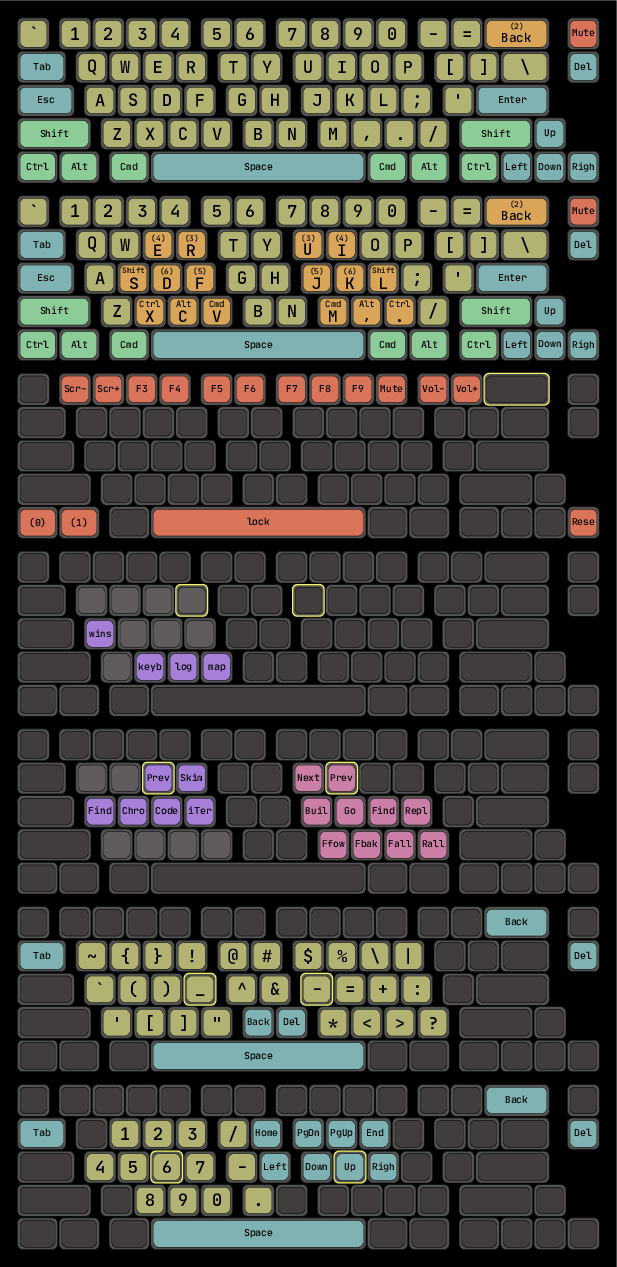
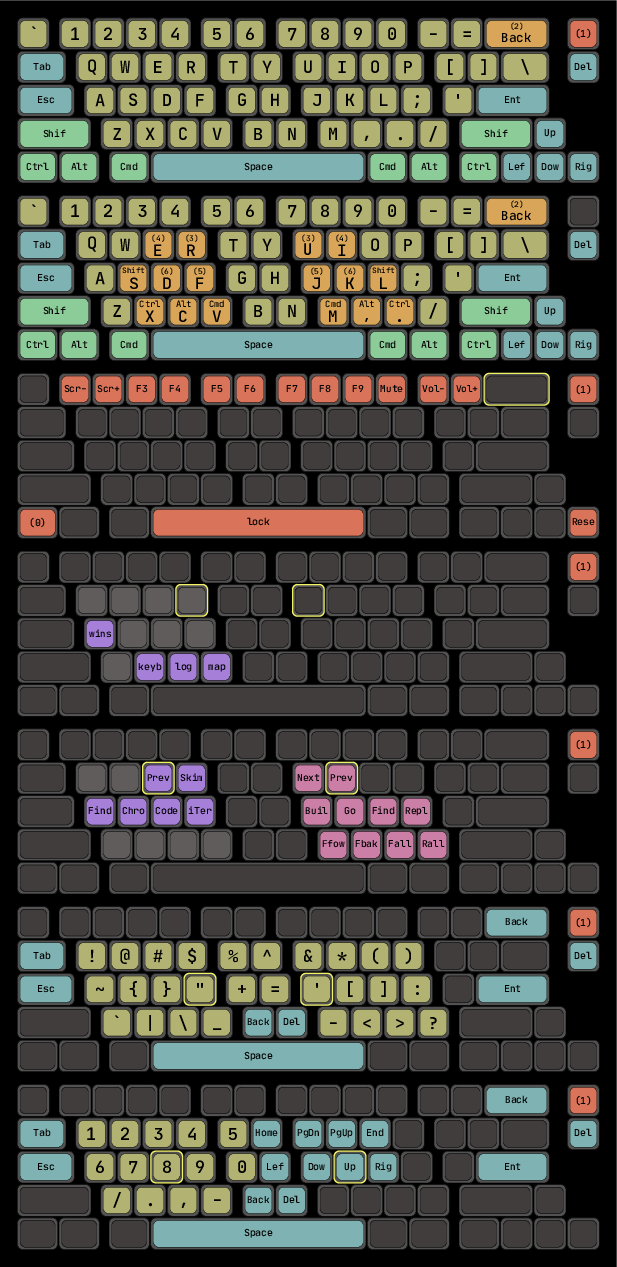
about to revert

diff --git a/keyboards/fc660c/keymaps/syzygies/keymap.c b/keyboards/fc660c/keymaps/syzygies/keymap.c
@@ -5,58 +5,58 @@
 const uint16_t PROGMEM keymaps[][MATRIX_ROWS][MATRIX_COLS] = {
   // Safety
   [0] = LAYOUT(
-    KC_GRV  , KC_1       , KC_2         , KC_3         , KC_4         , KC_5    , KC_6    , KC_7          , KC_8            , KC_9           , KC_0       , KC_MINS     , KC_EQL    , LT(2,KC_BSPC) , KC__MUTE ,
-    KC_TAB  , KC_Q       , KC_W         , KC_E         , KC_R         , KC_T    , KC_Y    , KC_U          , KC_I            , KC_O           , KC_P       , KC_LBRC     , KC_RBRC   , KC_BSLS       , KC_DEL   ,
+    KC_GRV  , KC_1       , KC_2         , KC_3         , KC_4         , KC_5    , KC_6    , KC_7          , KC_8            , KC_9           , KC_0       , KC_MINS     , KC_EQL    , LT(2,KC_BSPC) , DF(1)   ,
+    KC_TAB  , KC_Q       , KC_W         , KC_E         , KC_R         , KC_T    , KC_Y    , KC_U          , KC_I            , KC_O           , KC_P       , KC_LBRC     , KC_RBRC   , KC_BSLS       , KC_DEL  ,
     KC_ESC  , KC_A       , KC_S         , KC_D         , KC_F         , KC_G    , KC_H    , KC_J          , KC_K            , KC_L           , KC_SCLN    , KC_QUOT     , KC_ENT    ,
     KC_LSFT , KC_Z       , KC_X         , KC_C         , KC_V         , KC_B    , KC_N    , KC_M          , KC_COMM         , KC_DOT         , KC_SLSH    , KC_RSFT     , KC_UP     ,
     KC_LCTL , KC_LALT    , KC_LGUI      , KC_SPC       , KC_RGUI      , KC_RALT , KC_RCTL , KC_LEFT       , KC_DOWN         , KC_RGHT        
   ),
   // Base
   [1] = LAYOUT(
-    KC_GRV  , KC_1       , KC_2         , KC_3         , KC_4         , KC_5    , KC_6    , KC_7          , KC_8            , KC_9           , KC_0       , KC_MINS     , KC_EQL    , LT(2,KC_BSPC) , KC__MUTE ,
-    KC_TAB  , KC_Q       , KC_W         , LT(4,KC_E)   , LT(3,KC_R)   , KC_T    , KC_Y    , LT(3,KC_U)    , LT(4,KC_I)      , KC_O           , KC_P       , KC_LBRC     , KC_RBRC   , KC_BSLS       , KC_DEL   ,
+    KC_GRV  , KC_1       , KC_2         , KC_3         , KC_4         , KC_5    , KC_6    , KC_7          , KC_8            , KC_9           , KC_0       , KC_MINS     , KC_EQL    , LT(2,KC_BSPC) , XXXXXXX ,
+    KC_TAB  , KC_Q       , KC_W         , LT(4,KC_E)   , LT(3,KC_R)   , KC_T    , KC_Y    , LT(3,KC_U)    , LT(4,KC_I)      , KC_O           , KC_P       , KC_LBRC     , KC_RBRC   , KC_BSLS       , KC_DEL  ,
     KC_ESC  , KC_A       , LSFT_T(KC_S) , LT(6,KC_D)   , LT(5,KC_F)   , KC_G    , KC_H    , LT(5,KC_J)    , LT(6,KC_K)      , RSFT_T(KC_L)   , KC_SCLN    , KC_QUOT     , KC_ENT    ,
     KC_LSFT , KC_Z       , LCTL_T(KC_X) , LALT_T(KC_C) , LGUI_T(KC_V) , KC_B    , KC_N    , RGUI_T(KC_M)  , RALT_T(KC_COMM) , RCTL_T(KC_DOT) , KC_SLSH    , KC_RSFT     , KC_UP     ,
     KC_LCTL , KC_LALT    , KC_LGUI      , KC_SPC       , KC_RGUI      , KC_RALT , KC_RCTL , KC_LEFT       , KC_DOWN         , KC_RGHT        
   ),
-  // WO
+  // Backspace
   [2] = LAYOUT(
-    XXXXXXX , KC_F1      , KC_F2        , KC_F3        , KC_F4        , KC_F5   , KC_F6   , KC_F7         , KC_F8           , KC_F9          , KC__MUTE   , KC__VOLDOWN , KC__VOLUP , XXXXXXX       , XXXXXXX  ,
-    XXXXXXX , XXXXXXX    , XXXXXXX      , XXXXXXX      , XXXXXXX      , XXXXXXX , XXXXXXX , XXXXXXX       , XXXXXXX         , XXXXXXX        , XXXXXXX    , XXXXXXX     , XXXXXXX   , XXXXXXX       , XXXXXXX  ,
+    XXXXXXX , KC_F1      , KC_F2        , KC_F3        , KC_F4        , KC_F5   , KC_F6   , KC_F7         , KC_F8           , KC_F9          , KC__MUTE   , KC__VOLDOWN , KC__VOLUP , XXXXXXX       , DF(1)   ,
+    XXXXXXX , XXXXXXX    , XXXXXXX      , XXXXXXX      , XXXXXXX      , XXXXXXX , XXXXXXX , XXXXXXX       , XXXXXXX         , XXXXXXX        , XXXXXXX    , XXXXXXX     , XXXXXXX   , XXXXXXX       , XXXXXXX ,
     XXXXXXX , XXXXXXX    , XXXXXXX      , XXXXXXX      , XXXXXXX      , XXXXXXX , XXXXXXX , XXXXXXX       , XXXXXXX         , XXXXXXX        , XXXXXXX    , XXXXXXX     , XXXXXXX   ,
     XXXXXXX , XXXXXXX    , XXXXXXX      , XXXXXXX      , XXXXXXX      , XXXXXXX , XXXXXXX , XXXXXXX       , XXXXXXX         , XXXXXXX        , XXXXXXX    , XXXXXXX     , XXXXXXX   ,
-    DF(0)   , DF(1)      , XXXXXXX      , MEH(KC_SPC)  , XXXXXXX      , XXXXXXX , XXXXXXX , XXXXXXX       , XXXXXXX         , RESET          
+    DF(0)   , XXXXXXX    , XXXXXXX      , MEH(KC_SPC)  , XXXXXXX      , XXXXXXX , XXXXXXX , XXXXXXX       , XXXXXXX         , RESET          
   ),
   // RU
   [3] = LAYOUT(
-    XXXXXXX , XXXXXXX    , XXXXXXX      , XXXXXXX      , XXXXXXX      , XXXXXXX , XXXXXXX , XXXXXXX       , XXXXXXX         , XXXXXXX        , XXXXXXX    , XXXXXXX     , XXXXXXX   , XXXXXXX       , XXXXXXX  ,
-    XXXXXXX , MEH(KC_Q)  , MEH(KC_W)    , MEH(KC_E)    , MEH(KC_R)    , XXXXXXX , XXXXXXX , XXXXXXX       , XXXXXXX         , XXXXXXX        , XXXXXXX    , XXXXXXX     , XXXXXXX   , XXXXXXX       , XXXXXXX  ,
+    XXXXXXX , XXXXXXX    , XXXXXXX      , XXXXXXX      , XXXXXXX      , XXXXXXX , XXXXXXX , XXXXXXX       , XXXXXXX         , XXXXXXX        , XXXXXXX    , XXXXXXX     , XXXXXXX   , XXXXXXX       , DF(1)   ,
+    XXXXXXX , MEH(KC_Q)  , MEH(KC_W)    , MEH(KC_E)    , MEH(KC_R)    , XXXXXXX , XXXXXXX , XXXXXXX       , XXXXXXX         , XXXXXXX        , XXXXXXX    , XXXXXXX     , XXXXXXX   , XXXXXXX       , XXXXXXX ,
     XXXXXXX , MEH(KC_A)  , MEH(KC_S)    , MEH(KC_D)    , MEH(KC_F)    , XXXXXXX , XXXXXXX , XXXXXXX       , XXXXXXX         , XXXXXXX        , XXXXXXX    , XXXXXXX     , XXXXXXX   ,
     XXXXXXX , MEH(KC_Z)  , MEH(KC_X)    , MEH(KC_C)    , MEH(KC_V)    , XXXXXXX , XXXXXXX , XXXXXXX       , XXXXXXX         , XXXXXXX        , XXXXXXX    , XXXXXXX     , XXXXXXX   ,
     XXXXXXX , XXXXXXX    , XXXXXXX      , XXXXXXX      , XXXXXXX      , XXXXXXX , XXXXXXX , XXXXXXX       , XXXXXXX         , XXXXXXX        
   ),
   // EI
   [4] = LAYOUT(
-    XXXXXXX , XXXXXXX    , XXXXXXX      , XXXXXXX      , XXXXXXX      , XXXXXXX , XXXXXXX , XXXXXXX       , XXXXXXX         , XXXXXXX        , XXXXXXX    , XXXXXXX     , XXXXXXX   , XXXXXXX       , XXXXXXX  ,
-    XXXXXXX , HYPR(KC_Q) , HYPR(KC_W)   , HYPR(KC_E)   , HYPR(KC_R)   , XXXXXXX , XXXXXXX , S(G(KC_RBRC)) , S(G(KC_LBRC))   , XXXXXXX        , XXXXXXX    , XXXXXXX     , XXXXXXX   , XXXXXXX       , XXXXXXX  ,
+    XXXXXXX , XXXXXXX    , XXXXXXX      , XXXXXXX      , XXXXXXX      , XXXXXXX , XXXXXXX , XXXXXXX       , XXXXXXX         , XXXXXXX        , XXXXXXX    , XXXXXXX     , XXXXXXX   , XXXXXXX       , DF(1)   ,
+    XXXXXXX , HYPR(KC_Q) , HYPR(KC_W)   , HYPR(KC_E)   , HYPR(KC_R)   , XXXXXXX , XXXXXXX , S(G(KC_RBRC)) , S(G(KC_LBRC))   , XXXXXXX        , XXXXXXX    , XXXXXXX     , XXXXXXX   , XXXXXXX       , XXXXXXX ,
     XXXXXXX , HYPR(KC_A) , HYPR(KC_S)   , HYPR(KC_D)   , HYPR(KC_F)   , XXXXXXX , XXXXXXX , SCMD(KC_B)    , G(KC_P)         , G(KC_F)        , A(G(KC_F)) , XXXXXXX     , XXXXXXX   ,
     XXXXXXX , HYPR(KC_Z) , HYPR(KC_X)   , HYPR(KC_C)   , HYPR(KC_V)   , XXXXXXX , XXXXXXX , G(KC_G)       , S(G(KC_G))      , S(G(KC_F))     , S(G(KC_H)) , XXXXXXX     , XXXXXXX   ,
     XXXXXXX , XXXXXXX    , XXXXXXX      , XXXXXXX      , XXXXXXX      , XXXXXXX , XXXXXXX , XXXXXXX       , XXXXXXX         , XXXXXXX        
   ),
   // FJ
   [5] = LAYOUT(
-    XXXXXXX , XXXXXXX    , XXXXXXX      , XXXXXXX      , XXXXXXX      , XXXXXXX , XXXXXXX , XXXXXXX       , XXXXXXX         , XXXXXXX        , XXXXXXX    , XXXXXXX     , XXXXXXX   , KC_BSPC       , XXXXXXX  ,
-    KC_TAB  , KC_TILD    , KC_LCBR      , KC_RCBR      , KC_EXLM      , KC_AT   , KC_HASH , KC_DLR        , KC_PERC         , KC_BSLS        , KC_PIPE    , XXXXXXX     , XXXXXXX   , XXXXXXX       , KC_DEL   ,
-    XXXXXXX , KC_GRV     , KC_LPRN      , KC_RPRN      , KC_UNDS      , KC_CIRC , KC_AMPR , KC_MINS       , KC_EQL          , KC_PLUS        , KC_COLN    , XXXXXXX     , XXXXXXX   ,
-    XXXXXXX , KC_QUOT    , KC_LBRC      , KC_RBRC      , KC_DQUO      , KC_BSPC , KC_DEL  , KC_ASTR       , KC_LT           , KC_GT          , KC_QUES    , XXXXXXX     , XXXXXXX   ,
+    XXXXXXX , XXXXXXX    , XXXXXXX      , XXXXXXX      , XXXXXXX      , XXXXXXX , XXXXXXX , XXXXXXX       , XXXXXXX         , XXXXXXX        , XXXXXXX    , XXXXXXX     , XXXXXXX   , KC_BSPC       , DF(1)   ,
+    KC_TAB  , KC_EXLM    , KC_AT        , KC_HASH      , KC_DLR       , KC_PERC , KC_CIRC , KC_AMPR       , KC_ASTR         , KC_LPRN        , KC_RPRN    , XXXXXXX     , XXXXXXX   , XXXXXXX       , KC_DEL  ,
+    KC_ESC  , KC_TILD    , KC_LCBR      , KC_RCBR      , KC_DQUO      , KC_PLUS , KC_EQL  , KC_QUOT       , KC_LBRC         , KC_RBRC        , KC_COLN    , XXXXXXX     , KC_ENT    ,
+    XXXXXXX , KC_GRV     , KC_PIPE      , KC_BSLS      , KC_UNDS      , KC_BSPC , KC_DEL  , KC_MINS       , KC_LT           , KC_GT          , KC_QUES    , XXXXXXX     , XXXXXXX   ,
     XXXXXXX , XXXXXXX    , XXXXXXX      , KC_SPC       , XXXXXXX      , XXXXXXX , XXXXXXX , XXXXXXX       , XXXXXXX         , XXXXXXX        
   ),
   // DK
   [6] = LAYOUT(
-    XXXXXXX , XXXXXXX    , XXXXXXX      , XXXXXXX      , XXXXXXX      , XXXXXXX , XXXXXXX , XXXXXXX       , XXXXXXX         , XXXXXXX        , XXXXXXX    , XXXXXXX     , XXXXXXX   , KC_BSPC       , XXXXXXX  ,
-    KC_TAB  , XXXXXXX    , KC_1         , KC_2         , KC_3         , KC_SLSH , KC_HOME , KC_PGDOWN     , KC_PGUP         , KC_END         , XXXXXXX    , XXXXXXX     , XXXXXXX   , XXXXXXX       , KC_DEL   ,
-    XXXXXXX , KC_4       , KC_5         , KC_6         , KC_7         , KC_MINS , KC_LEFT , KC_DOWN       , KC_UP           , KC_RGHT        , XXXXXXX    , XXXXXXX     , XXXXXXX   ,
-    XXXXXXX , XXXXXXX    , KC_8         , KC_9         , KC_0         , KC_DOT  , XXXXXXX , XXXXXXX       , XXXXXXX         , XXXXXXX        , XXXXXXX    , XXXXXXX     , XXXXXXX   ,
+    XXXXXXX , XXXXXXX    , XXXXXXX      , XXXXXXX      , XXXXXXX      , XXXXXXX , XXXXXXX , XXXXXXX       , XXXXXXX         , XXXXXXX        , XXXXXXX    , XXXXXXX     , XXXXXXX   , KC_BSPC       , DF(1)   ,
+    KC_TAB  , KC_1       , KC_2         , KC_3         , KC_4         , KC_5    , KC_HOME , KC_PGDOWN     , KC_PGUP         , KC_END         , XXXXXXX    , XXXXXXX     , XXXXXXX   , XXXXXXX       , KC_DEL  ,
+    KC_ESC  , KC_6       , KC_7         , KC_8         , KC_9         , KC_0    , KC_LEFT , KC_DOWN       , KC_UP           , KC_RGHT        , XXXXXXX    , XXXXXXX     , KC_ENT    ,
+    XXXXXXX , KC_SLSH    , KC_DOT       , KC_COMM      , KC_MINS      , KC_BSPC , KC_DEL  , XXXXXXX       , XXXXXXX         , XXXXXXX        , XXXXXXX    , XXXXXXX     , XXXXXXX   ,
     XXXXXXX , XXXXXXX    , XXXXXXX      , KC_SPC       , XXXXXXX      , XXXXXXX , XXXXXXX , XXXXXXX       , XXXXXXX         , XXXXXXX        
   )
 };
